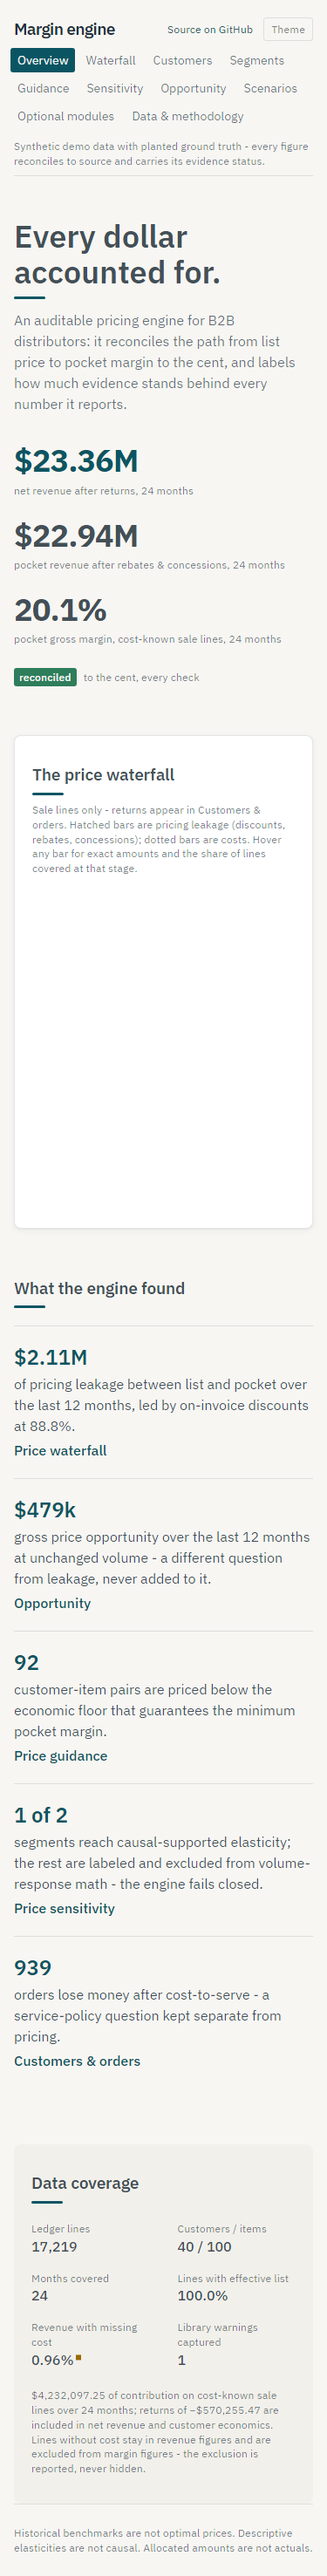
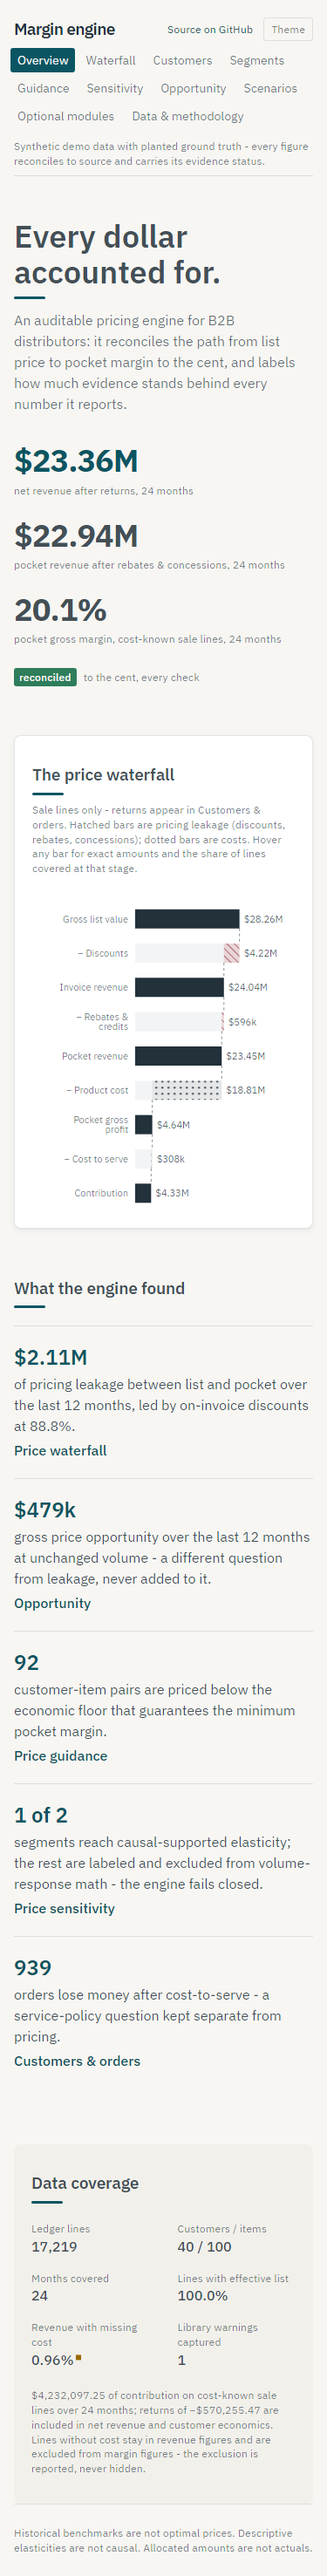
phase-23: GitHub Pages deploy workflow, README demo link and screenshot

diff --git a/docs/build-log.md b/docs/build-log.md
@@ -1151,3 +1151,26 @@ Python changes this phase).
   Lighthouse) on push.
 
 ruff, mypy strict and the full Python suite pass (no Python changes).
+
+---
+## Phase 23 — Deploy (2026-10-17)
+
+**Built.** .github/workflows/pages.yml: on push to main (or manual dispatch),
+the workflow syncs the Python env, exports the fixed-seed demo bundle
+(margin-engine export-web --demo), verifies the generated TypeScript types
+are in sync with the schema, builds the app, runs vitest, Playwright (axe,
+routes, parity, interactions; SKIP_SNAPSHOTS=1 because baselines are
+platform-specific - documented in the spec file), runs the Lighthouse gate
+script against a compression-enabled server, uploads web/dist and deploys to
+GitHub Pages via actions/deploy-pages (pages + id-token permissions,
+concurrency-guarded). README gains the live demo link and the Overview
+screenshot.
+
+**Verification.** Workflow YAML parsed and structure-checked (13 build steps,
+deploy depends on build). Local production build served with compression and
+smoke-tested: 200 on /, bundle.json served, all 88 Playwright tests green on
+the production build, Lighthouse 100/100/96. ruff, mypy strict and the full
+Python suite pass (no Python changes).
+
+**Run 3 complete.** HARD STOP: the owner enables GitHub Pages (source:
+GitHub Actions) in repository settings and pushes.

diff --git a/README.md b/README.md
@@ -1,5 +1,13 @@
 # Margin Engine
 
+**[Live demo](https://jjdlg45.github.io/margin-engine/)** - a static site on
+GitHub Pages presenting the engine's results on a fixed-seed synthetic world:
+the reconciled price waterfall, guidance with economic floors, elasticity
+evidence, opportunity sizing and pass-through scenarios, with evidence status
+on every number.
+
+![Overview page](docs/ui/review/overview-light-desktop.png)
+
 An auditable pricing and margin decision engine for B2B distributors
 (industrial, electrical, HVAC, plumbing, foodservice — any business with
 negotiated prices). It ingests ERP invoice exports, reconciles every dollar,
